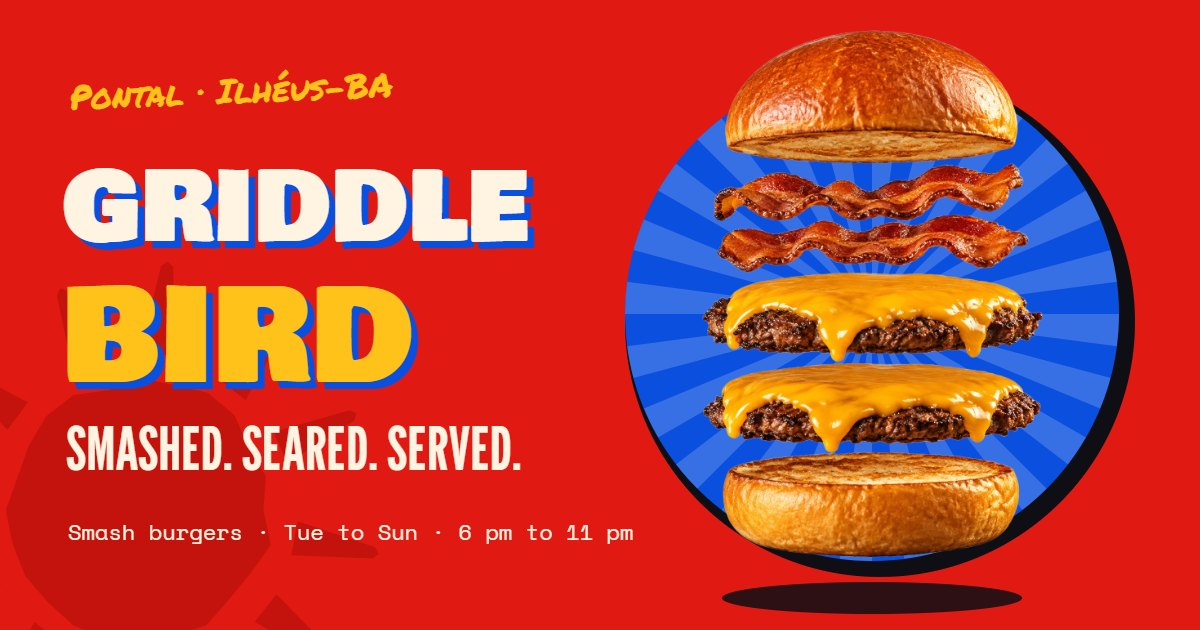
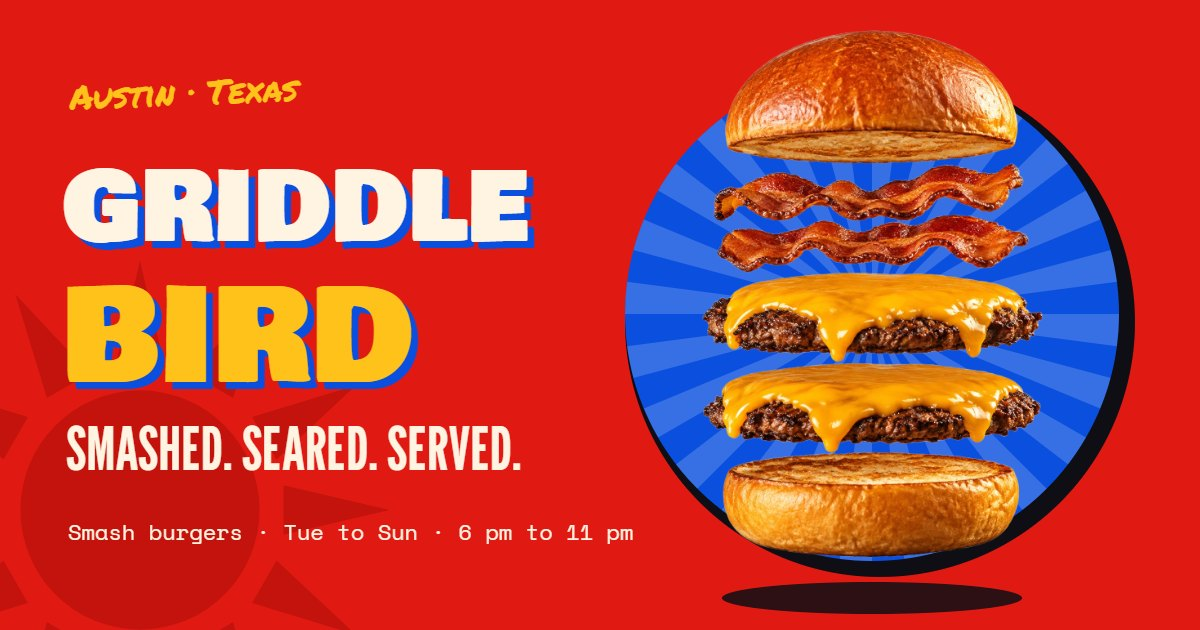
Dados de exemplo dos EUA, desenhos novos e pasta de fotos organizada

diff --git a/index.html b/index.html
@@ -3,11 +3,11 @@
 <head>
 <meta charset="utf-8">
 <meta name="viewport" content="width=device-width, initial-scale=1, viewport-fit=cover">
-<title>Griddlebird · Smash burgers in Pontal, Ilhéus-BA</title>
-<meta name="description" content="Griddlebird: smash burgers made with fresh beef pressed on the griddle, with crispy edges. Pontal, Ilhéus-BA. Demo site with a fictional brand and data.">
+<title>Griddlebird · Smash burgers in Austin, Texas</title>
+<meta name="description" content="Griddlebird: smash burgers made with fresh beef pressed on the griddle, with crispy edges. Austin, Texas. Demo site with a fictional brand and data.">
 <meta property="og:type" content="website">
 <meta property="og:url" content="https://smashburger-ruddy.vercel.app/">
-<meta property="og:title" content="Griddlebird · Smash burgers in Pontal, Ilhéus-BA">
+<meta property="og:title" content="Griddlebird · Smash burgers in Austin, Texas">
 <meta property="og:description" content="Fresh beef pressed on the griddle, crispy edges and melting cheese. Demo site with a fictional brand and data.">
 <meta property="og:image" content="https://smashburger-ruddy.vercel.app/og.jpg">
 <meta property="og:image:width" content="1200">
@@ -692,8 +692,8 @@ dialog.sheet.is-closing::backdrop{ animation:fadeOut .2s ease forwards; }
 <body>
 <!-- desenhos de detalhe (sol, tucano) -->
 <svg width="0" height="0" style="position:absolute" aria-hidden="true">
-  <symbol id="d-sol" viewBox="0 0 200 200"><path d="M147.5 100 L150.3 113.5 L142.4 124.5 L134.3 134.3 L125.6 144.3 L113 148.5 L100 149.1 L86.7 149.5 L74.4 144.4 L64.5 135.5 L55.9 125.5 L51 113.1 L48.4 100 L52.9 87.4 L57.2 75.3 L63.9 63.9 L74.5 55.8 L87.6 53.9 L100 49.1 L112.9 51.9 L126.1 54.9 L136.4 63.6 L141.7 75.9 L148.4 87ZM160.6 104.3 L190.3 114.2 L191.9 116.8 L189.5 118.7 L158.2 117.4ZM152.5 132.4 L175.6 156 L175.7 159.1 L172.7 159.7 L144.1 143ZM129.4 151.5 L139.3 184.7 L137.9 187.5 L135 186.6 L117.5 156.7ZM100 158.6 L92.5 187.7 L90.1 189.4 L88.2 187.2 L87.2 157.2ZM69.8 150.9 L45.2 176.8 L42.1 177 L41.4 174 L59.4 143.1ZM46.4 129 L14.1 137.5 L11.3 136.1 L12.3 133.2 L41.4 116.6ZM40.9 101.9 L9.5 95.3 L7.7 92.9 L9.9 90.8 L41.9 89ZM49 69.1 L29.7 48.8 L29.5 45.9 L32.4 45.4 L56.9 58.7ZM74.4 47.7 L68 17.3 L69.4 14.7 L72.2 15.8 L86.5 43.4ZM100.1 39.3 L108.1 6.1 L110.7 4.4 L112.8 6.6 L113.3 40.8ZM130.4 49.8 L152.5 28.1 L155.5 27.8 L156 30.8 L140.6 57.7ZM151.3 70 L180.6 61.6 L183.3 62.8 L182.4 65.7 L156.6 81.9Z"/></symbol>
-  <symbol id="d-tucano" viewBox="0 0 120 150"><path fill-rule="evenodd" d="M62 22C40 13 14 17 5 34c-2 5 2 7 7 5 15-5 32-1 48 8-3 15-8 31-6 49 2 16 12 30 26 36l5 8h8l-4-10c10-6 17-20 17-38 2-28-6-52-16-64-8-8-18-10-28-6ZM76 29a4 4 0 1 0 0.1 0Z"/><path d="M76 124l-3 12 6 2 4-12ZM88 126l1 12 6 0-1-12Z"/></symbol>
+  <symbol id="d-sol" viewBox="0 0 200 200"><path d="M146 100A46 46 0 1 1 54 100A46 46 0 1 1 146 100ZM155.2 90.5 L196.0 100.0 L155.2 109.5ZM152.5 119.4 L183.1 148.0 L143.1 135.8ZM135.8 143.1 L148.0 183.1 L119.4 152.5ZM109.5 155.2 L100.0 196.0 L90.5 155.2ZM80.6 152.5 L52.0 183.1 L64.2 143.1ZM56.9 135.8 L16.9 148.0 L47.5 119.4ZM44.8 109.5 L4.0 100.0 L44.8 90.5ZM47.5 80.6 L16.9 52.0 L56.9 64.2ZM64.2 56.9 L52.0 16.9 L80.6 47.5ZM90.5 44.8 L100.0 4.0 L109.5 44.8ZM119.4 47.5 L148.0 16.9 L135.8 56.9ZM143.1 64.2 L183.1 52.0 L152.5 80.6Z"/></symbol>
+  <symbol id="d-tucano" viewBox="0 0 120 150"><path fill-rule="evenodd" d="M34 44C34 28 48 18 64 20C86 16 112 28 118 64C104 52 88 50 72 54C76 72 72 94 58 110L50 122L40 146H26L30 118C18 100 28 64 34 44ZM56 32A4.5 4.5 0 1 0 56 41A4.5 4.5 0 1 0 56 32Z"/><path d="M4 116H108V122H4Z"/></symbol>
 </svg>
 <a class="skip" href="#conteudo">Skip to content</a>
 
@@ -729,7 +729,7 @@ dialog.sheet.is-closing::backdrop{ animation:fadeOut .2s ease forwards; }
     <li><a class="mlink" href="#contact">Contact</a></li>
   </ul>
   <a class="btn btn--yellow" href="#contact" data-pedir>Order now</a>
-  <p class="mnav-info">Rua Exemplo, 100 · Pontal, Ilhéus-BA<br>Tuesday to Sunday, 6 pm to 11 pm<br>(73) 90000-0000</p>
+  <p class="mnav-info">100 Example Street, Austin, TX<br>Tuesday to Sunday, 6 pm to 11 pm<br>(512) 555-0142</p>
 </div>
 
 <main id="conteudo">
@@ -739,7 +739,7 @@ dialog.sheet.is-closing::backdrop{ animation:fadeOut .2s ease forwards; }
   <svg class="deco deco--sol" aria-hidden="true"><use href="#d-sol"/></svg>
   <div class="wrap hero-grid">
     <div class="hero-copy">
-      <p class="hand">Pontal · Ilhéus-BA</p>
+      <p class="hand">Austin · Texas</p>
       <h1 id="hero-title"><span class="l1">Smashed.</span><span class="l2">Seared.</span><span class="l3">Served.</span></h1>
       <p class="hero-sub">Fresh beef pressed on a hot griddle, crispy edges and melting cheese.</p>
       <div class="hero-ctas">
@@ -748,7 +748,7 @@ dialog.sheet.is-closing::backdrop{ animation:fadeOut .2s ease forwards; }
       </div>
       <p class="hero-meta">
         <span class="status" data-status>Tuesday to Sunday, 6 pm to 11 pm</span>
-        <span>Rua Exemplo, 100</span>
+        <span>100 Example Street</span>
       </p>
     </div>
 
@@ -839,8 +839,8 @@ dialog.sheet.is-closing::backdrop{ animation:fadeOut .2s ease forwards; }
           <div class="receipt is-stamped" id="receipt">
             <div class="r-center">
               <div class="r-logo">GRIDDLEBIRD</div>
-              <div>Rua Exemplo, 100 · Pontal</div>
-              <div>Ilhéus-BA · (73) 90000-0000</div>
+              <div>100 Example Street</div>
+              <div>Austin, TX · (512) 555-0142</div>
               <div class="r-small">DEMO RECEIPT</div>
             </div>
             <div class="r-sep"></div>
@@ -874,7 +874,7 @@ dialog.sheet.is-closing::backdrop{ animation:fadeOut .2s ease forwards; }
         <p class="label">House top 4</p>
         <h2 class="big-title" id="mais-title">Best sellers</h2>
       </div>
-      <p class="hand">Pontal’s favorites</p>
+      <p class="hand">the neighborhood’s favorites</p>
     </div>
 
     <div class="cards">
@@ -952,11 +952,11 @@ dialog.sheet.is-closing::backdrop{ animation:fadeOut .2s ease forwards; }
       <div class="menu-group" data-cat="hamburgueres">
         <div class="group-head"><h3>Burgers</h3><span>05 items</span></div>
         <ul class="items">
-          <li class="item"><div class="item-top"><h4>Classic Griddle <span class="stk">Most ordered</span></h4><span class="lead"></span><span class="item-price">$11.90</span></div><p>Two 80 g smashed patties, cheddar, griddled onions, pickles and house sauce on a brioche bun.</p></li>
+          <li class="item"><div class="item-top"><h4>Classic Griddle <span class="stk">Most ordered</span></h4><span class="lead"></span><span class="item-price">$11.90</span></div><p>Two 3 oz smashed patties, cheddar, griddled onions, pickles and house sauce on a brioche bun.</p></li>
           <li class="item"><div class="item-top"><h4>Spicy Griddle <span class="stk stk--red">Spicy</span></h4><span class="lead"></span><span class="item-price">$12.90</span></div><p>Two smashed patties, pepper jack, jalapeño and chipotle mayo.</p></li>
           <li class="item"><div class="item-top"><h4>Double Bacon</h4><span class="lead"></span><span class="item-price">$13.90</span></div><p>Two smashed patties, double cheddar, crispy bacon and house barbecue sauce.</p></li>
-          <li class="item"><div class="item-top"><h4>Pontal Coalho <span class="stk stk--blue">New</span></h4><span class="lead"></span><span class="item-price">$12.50</span></div><p>Smashed patty with griddled coalho cheese, caramelized onions and a drizzle of honey.</p></li>
-          <li class="item"><div class="item-top"><h4>Simple Smash</h4><span class="lead"></span><span class="item-price">$8.90</span></div><p>One 80 g smashed patty, prato cheese, ketchup and mustard. No fuss.</p></li>
+          <li class="item"><div class="item-top"><h4>Honey Melt <span class="stk stk--blue">New</span></h4><span class="lead"></span><span class="item-price">$12.50</span></div><p>Smashed patty with griddled halloumi, caramelized onions and a drizzle of honey.</p></li>
+          <li class="item"><div class="item-top"><h4>Simple Smash</h4><span class="lead"></span><span class="item-price">$8.90</span></div><p>One 3 oz smashed patty, American cheese, ketchup and mustard. No fuss.</p></li>
         </ul>
       </div>
 
@@ -983,7 +983,7 @@ dialog.sheet.is-closing::backdrop{ animation:fadeOut .2s ease forwards; }
         <ul class="items">
           <li class="item"><div class="item-top"><h4>Vanilla Milkshake</h4><span class="lead"></span><span class="item-price">$7.90</span></div><p>Blended to order, creamy, with whipped cream.</p></li>
           <li class="item"><div class="item-top"><h4>Chocolate Milkshake</h4><span class="lead"></span><span class="item-price">$8.50</span></div><p>Semisweet chocolate with syrup on top.</p></li>
-          <li class="item"><div class="item-top"><h4>House Lemonade</h4><span class="lead"></span><span class="item-price">$4.50</span></div><p>Freshly squeezed lime, ice and mint.</p></li>
+          <li class="item"><div class="item-top"><h4>House Lemonade</h4><span class="lead"></span><span class="item-price">$4.50</span></div><p>Freshly squeezed lemons, ice and mint.</p></li>
         </ul>
       </div>
 
@@ -1006,13 +1006,13 @@ dialog.sheet.is-closing::backdrop{ animation:fadeOut .2s ease forwards; }
     <div>
       <p class="label">Where we came from</p>
       <h2 class="big-title" id="hist-title">Our story</h2>
-      <p class="hand">it started on a tiny 60 cm griddle</p>
-      <p class="txt">Griddlebird was born in a garage in Pontal, with a small griddle, a heavy spatula and half a dozen neighbors as its first customers. The idea was simple: a ball of fresh beef, pressed hard onto a very hot griddle until the edges turned lacy and crisp.</p>
-      <p class="txt">The neighborhood liked it, the line reached the sidewalk and the griddle got too small. Today the place is bigger, but the method is the same: everything made to order, with few ingredients and a griddle that’s always very hot. Walk down Rua Exemplo after six and you’ll smell it before you see the sign.</p>
+      <p class="hand">it started on a tiny 24-inch griddle</p>
+      <p class="txt">Griddlebird was born in a garage in East Austin, with a small griddle, a heavy spatula and half a dozen neighbors as its first customers. The idea was simple: a ball of fresh beef, pressed hard onto a very hot griddle until the edges turned lacy and crisp.</p>
+      <p class="txt">The neighborhood liked it, the line reached the sidewalk and the griddle got too small. Today the place is bigger, but the method is the same: everything made to order, with few ingredients and a griddle that’s always very hot. Walk down Example Street after six and you’ll smell it before you see the sign.</p>
       <div class="hist-stks" aria-hidden="true">
         <span class="stk" style="--r:-5deg">Made to order</span>
         <span class="stk stk--red" style="--r:4deg">1 griddle became 3</span>
-        <span class="stk stk--ink" style="--r:-3deg">230 °C on the griddle</span>
+        <span class="stk stk--ink" style="--r:-3deg">450 °F on the griddle</span>
       </div>
     </div>
 
@@ -1026,10 +1026,10 @@ dialog.sheet.is-closing::backdrop{ animation:fadeOut .2s ease forwards; }
   </div>
 </section>
 
-<div class="marquee marquee--red" aria-label="Tuesday to Sunday, 6 pm to 11 pm, in Pontal, Ilhéus">
+<div class="marquee marquee--red" aria-label="Tuesday to Sunday, 6 pm to 11 pm, in Austin, Texas">
   <div class="marquee-track" aria-hidden="true">
-    <div class="marquee-group"><span>Tuesday to Sunday</span><i>★</i><span>6 pm to 11 pm</span><i>★</i><span>Pontal · Ilhéus-BA</span><i>★</i><span>Order online</span><i>★</i><span>Tuesday to Sunday</span><i>★</i><span>6 pm to 11 pm</span><i>★</i><span>Pontal · Ilhéus-BA</span><i>★</i><span>Order online</span><i>★</i></div>
-    <div class="marquee-group"><span>Tuesday to Sunday</span><i>★</i><span>6 pm to 11 pm</span><i>★</i><span>Pontal · Ilhéus-BA</span><i>★</i><span>Order online</span><i>★</i><span>Tuesday to Sunday</span><i>★</i><span>6 pm to 11 pm</span><i>★</i><span>Pontal · Ilhéus-BA</span><i>★</i><span>Order online</span><i>★</i></div>
+    <div class="marquee-group"><span>Tuesday to Sunday</span><i>★</i><span>6 pm to 11 pm</span><i>★</i><span>Austin, Texas</span><i>★</i><span>Order online</span><i>★</i><span>Tuesday to Sunday</span><i>★</i><span>6 pm to 11 pm</span><i>★</i><span>Austin, Texas</span><i>★</i><span>Order online</span><i>★</i></div>
+    <div class="marquee-group"><span>Tuesday to Sunday</span><i>★</i><span>6 pm to 11 pm</span><i>★</i><span>Austin, Texas</span><i>★</i><span>Order online</span><i>★</i><span>Tuesday to Sunday</span><i>★</i><span>6 pm to 11 pm</span><i>★</i><span>Austin, Texas</span><i>★</i><span>Order online</span><i>★</i></div>
   </div>
 </div>
 
@@ -1047,12 +1047,12 @@ dialog.sheet.is-closing::backdrop{ animation:fadeOut .2s ease forwards; }
     <div class="foot-grid">
       <div>
         <h3>Address</h3>
-        <p>Rua Exemplo, 100<br>Pontal, Ilhéus-BA</p>
-        <p><a href="https://www.google.com/maps/search/?api=1&amp;query=Rua%20Exemplo%2C%20100%2C%20Pontal%2C%20Ilh%C3%A9us-BA" target="_blank" rel="noopener">Get directions ↗</a></p>
+        <p>100 Example Street<br>Austin, TX</p>
+        <p><a href="https://www.google.com/maps/search/?api=1&amp;query=100%20Example%20Street%2C%20Austin%2C%20TX" target="_blank" rel="noopener">Get directions ↗</a></p>
       </div>
       <div>
         <h3>Contact</h3>
-        <p><a href="tel:+5573900000000">(73) 90000-0000</a></p>
+        <p><a href="tel:+15125550142">(512) 555-0142</a></p>
       </div>
       <div>
         <h3>Hours</h3>
@@ -1075,7 +1075,7 @@ dialog.sheet.is-closing::backdrop{ animation:fadeOut .2s ease forwards; }
 
     <div class="foot-bottom">
       <p><strong>Demo site. Fictional brand and data.</strong></p>
-      <p>© <span id="ano">2026</span> Griddlebird · Pontal, Ilhéus-BA</p>
+      <p>© <span id="ano">2026</span> Griddlebird · Austin, Texas</p>
     </div>
   </div>
 </footer>
@@ -1126,14 +1126,14 @@ dialog.sheet.is-closing::backdrop{ animation:fadeOut .2s ease forwards; }
       <span><strong data-pedido-acao>See the menu</strong><small data-pedido-resumo>Pick your items first</small></span>
       <svg class="opt-go" viewBox="0 0 20 20" fill="none" stroke="currentColor" stroke-width="2.5" stroke-linecap="round" stroke-linejoin="round"><path d="M4 10h12M11 5l5 5-5 5"/></svg>
     </button>
-    <a class="opt" href="tel:+5573900000000">
+    <a class="opt" href="tel:+15125550142">
       <span class="opt-ico"><svg viewBox="0 0 24 24" fill="none" stroke="currentColor" stroke-width="2.2" stroke-linejoin="round" stroke-linecap="round"><path d="M5 4h4l2 5-2.5 1.5a11 11 0 0 0 5 5L15 13l5 2v4a2 2 0 0 1-2 2A16 16 0 0 1 3 6a2 2 0 0 1 2-2"/></svg></span>
-      <span><strong>Call</strong><small>(73) 90000-0000</small></span>
+      <span><strong>Call</strong><small>(512) 555-0142</small></span>
       <svg class="opt-go" viewBox="0 0 20 20" fill="none" stroke="currentColor" stroke-width="2.5" stroke-linecap="round" stroke-linejoin="round"><path d="M4 10h12M11 5l5 5-5 5"/></svg>
     </a>
-    <a class="opt" href="https://www.google.com/maps/search/?api=1&amp;query=Rua%20Exemplo%2C%20100%2C%20Pontal%2C%20Ilh%C3%A9us-BA" target="_blank" rel="noopener">
+    <a class="opt" href="https://www.google.com/maps/search/?api=1&amp;query=100%20Example%20Street%2C%20Austin%2C%20TX" target="_blank" rel="noopener">
       <span class="opt-ico"><svg viewBox="0 0 24 24" fill="none" stroke="currentColor" stroke-width="2.2" stroke-linejoin="round" stroke-linecap="round"><path d="M12 21s-7-6.2-7-11.5a7 7 0 0 1 14 0C19 14.8 12 21 12 21Z"/><circle cx="12" cy="9.5" r="2.5"/></svg></span>
-      <span><strong>Get directions</strong><small>Rua Exemplo, 100 · Pontal, Ilhéus-BA</small></span>
+      <span><strong>Get directions</strong><small>100 Example Street, Austin, TX</small></span>
       <svg class="opt-go" viewBox="0 0 20 20" fill="none" stroke="currentColor" stroke-width="2.5" stroke-linecap="round" stroke-linejoin="round"><path d="M4 10h12M11 5l5 5-5 5"/></svg>
     </a>
     <div class="pedido-ok" data-pedido-ok tabindex="-1">

diff --git a/README.md b/README.md
@@ -1,6 +1,6 @@
 # Griddlebird
 
-Site de demonstração para portfólio de uma hamburgueria smash fictícia no Pontal, Ilhéus-BA.
+Site de demonstração para portfólio de uma hamburgueria smash fictícia com dados de exemplo dos EUA.
 Marca, endereço, telefone, cardápio e preços são fictícios.
 
 Uma página só (`index.html`), com HTML, CSS e JavaScript juntos, sem dependências além das fontes do Google Fonts.
